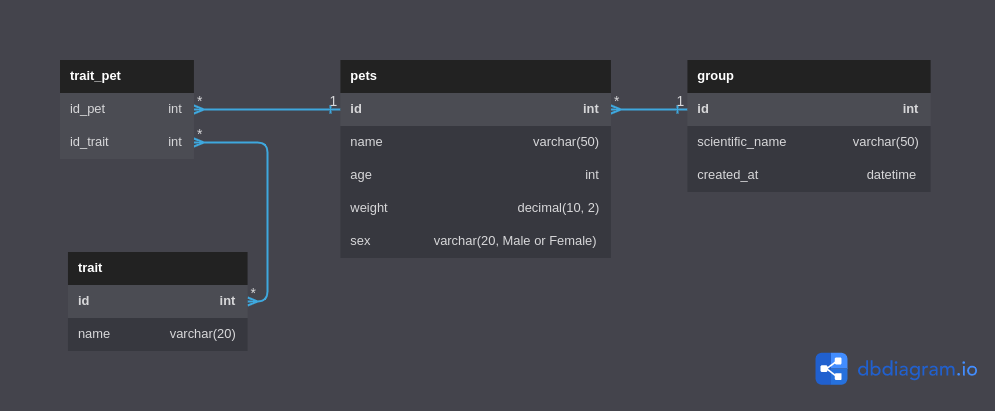
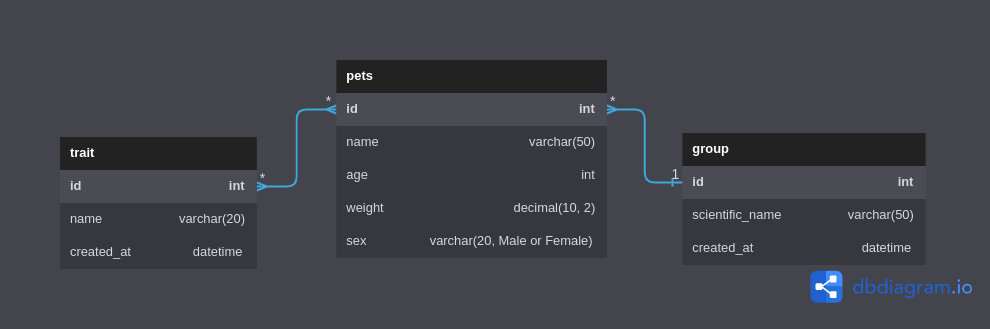
refactor: refactoring code and fixing bugs

diff --git a/pets/serializers.py b/pets/serializers.py
@@ -2,23 +2,60 @@ from rest_framework import serializers
 from pets.models import Sex,Pet
 from traits.serializers import TraitSerializer
 from groups.serializers import GroupSerializer
+from groups.models import Group
+from traits.models import Trait
 
 
 class PetSerializer(serializers.Serializer):
+
     id = serializers.IntegerField(read_only = True)
-    name = serializers.CharField(max_length = 10)
+    name = serializers.CharField()
     age = serializers.IntegerField()
-    weigth = serializers.FloatField()
+    weight = serializers.FloatField()
     sex = serializers.ChoiceField(choices= Sex.choices, default= Sex.DEFAULT)
-    group = GroupSerializer(many = True)
-    trait = TraitSerializer(many = True)
+    group = GroupSerializer()
+    traits = TraitSerializer(many = True)
+    traits_count = serializers.SerializerMethodField()
+
+
+    def get_traits_count(self, obj):
+
+        traits = obj.traits.count()
+        traits_count = traits
+        return traits_count
 
     def create(self, validated_data:dict)->Pet:
-        pet = Pet.objects.create(**validated_data)
-        return pet
+        group_dict = validated_data.pop("group")
+        traits_dict = validated_data.pop("traits")
+
+        group_obj, _ = Group.objects.get_or_create(**group_dict )
+        
+        pet_obj = Pet.objects.create(**validated_data, group=group_obj)
+
+        for trait_key in traits_dict:
+            trait, _ = Trait.objects.get_or_create(**trait_key)
+            pet_obj.traits.add(trait)
+
+        pet_obj.save()
+
+        return pet_obj
 
     def update(self, instance, validated_data:dict):
+        new_traits = []
+        group_dict = validated_data.pop("group", None)
+        trait_dict = validated_data.pop("traits", None)
+        
+        if group_dict : 
+            group_obj, _ = Group.objects.get_or_create(**group_dict)
+            instance.group = group_obj
 
+        if trait_dict:
+            for trait in trait_dict :
+                trait_obj, _ = Trait.objects.get_or_create(**trait)
+                new_traits.append(trait_obj)
+
+            instance.traits.set(new_traits)
+            
         for key, value in validated_data.items():
             setattr(instance, key, value)
 

diff --git a/pets/migrations/0001_initial.py b/pets/migrations/0001_initial.py
@@ -1,4 +1,4 @@
-# Generated by Django 4.1.3 on 2022-12-01 15:10
+# Generated by Django 4.1.3 on 2022-12-06 15:06
 
 from django.db import migrations, models
 import django.db.models.deletion
@@ -26,6 +26,7 @@ class Migration(migrations.Migration):
                         verbose_name="ID",
                     ),
                 ),
+                ("name", models.CharField(max_length=50)),
                 ("age", models.IntegerField()),
                 ("weight", models.FloatField()),
                 (
@@ -44,13 +45,13 @@ class Migration(migrations.Migration):
                     "group",
                     models.ForeignKey(
                         on_delete=django.db.models.deletion.CASCADE,
-                        related_name="groups",
+                        related_name="pets",
                         to="groups.group",
                     ),
                 ),
                 (
-                    "trait",
-                    models.ManyToManyField(related_name="trait", to="traits.trait"),
+                    "traits",
+                    models.ManyToManyField(related_name="pets", to="traits.trait"),
                 ),
             ],
         ),

diff --git a/pets/models.py b/pets/models.py
@@ -7,7 +7,7 @@ class Sex(models.TextChoices):
 
 class Pet(models.Model):
 
-    name = models.CharField(max_length=50),
+    name = models.CharField(max_length=50)
     age = models.IntegerField()
     weight = models.FloatField()
     sex = models.CharField(max_length=20, choices=Sex.choices, default=Sex.DEFAULT, )
@@ -15,11 +15,11 @@ class Pet(models.Model):
     group = models.ForeignKey(
         "groups.Group",
         on_delete=models.CASCADE,
-        related_name="groups"
+        related_name="pets"
     )
-    trait = models.ManyToManyField(
+    traits = models.ManyToManyField(
         "traits.Trait",
-        related_name="trait"
+        related_name="pets"
     )
 
 

diff --git a/groups/serializers.py b/groups/serializers.py
@@ -4,5 +4,5 @@ from rest_framework.validators import UniqueValidator
 
 class GroupSerializer(serializers.Serializer):
     id = serializers.IntegerField(read_only = True)
-    scienthific_name = serializers.CharField(max_length=50)
+    scientific_name = serializers.CharField(max_length=50)
     created_at = serializers.DateTimeField(read_only = True)

diff --git a/pets/views.py b/pets/views.py
@@ -30,6 +30,8 @@ class PetDetailView(APIView):
         pet = get_object_or_404(Pet, id = pet_id)
         serializer = PetSerializer(pet, data=request.data, partial=True)
         serializer.is_valid(raise_exception=True)
+        
+        serializer.save()
 
         return Response(serializer.data)
 

diff --git a/groups/migrations/0001_initial.py b/groups/migrations/0001_initial.py
@@ -1,4 +1,4 @@
-# Generated by Django 4.1.3 on 2022-12-01 15:10
+# Generated by Django 4.1.3 on 2022-12-06 15:06
 
 from django.db import migrations, models
 

diff --git a/traits/migrations/0001_initial.py b/traits/migrations/0001_initial.py
@@ -1,4 +1,4 @@
-# Generated by Django 4.1.3 on 2022-12-01 15:10
+# Generated by Django 4.1.3 on 2022-12-06 15:06
 
 from django.db import migrations, models
 
